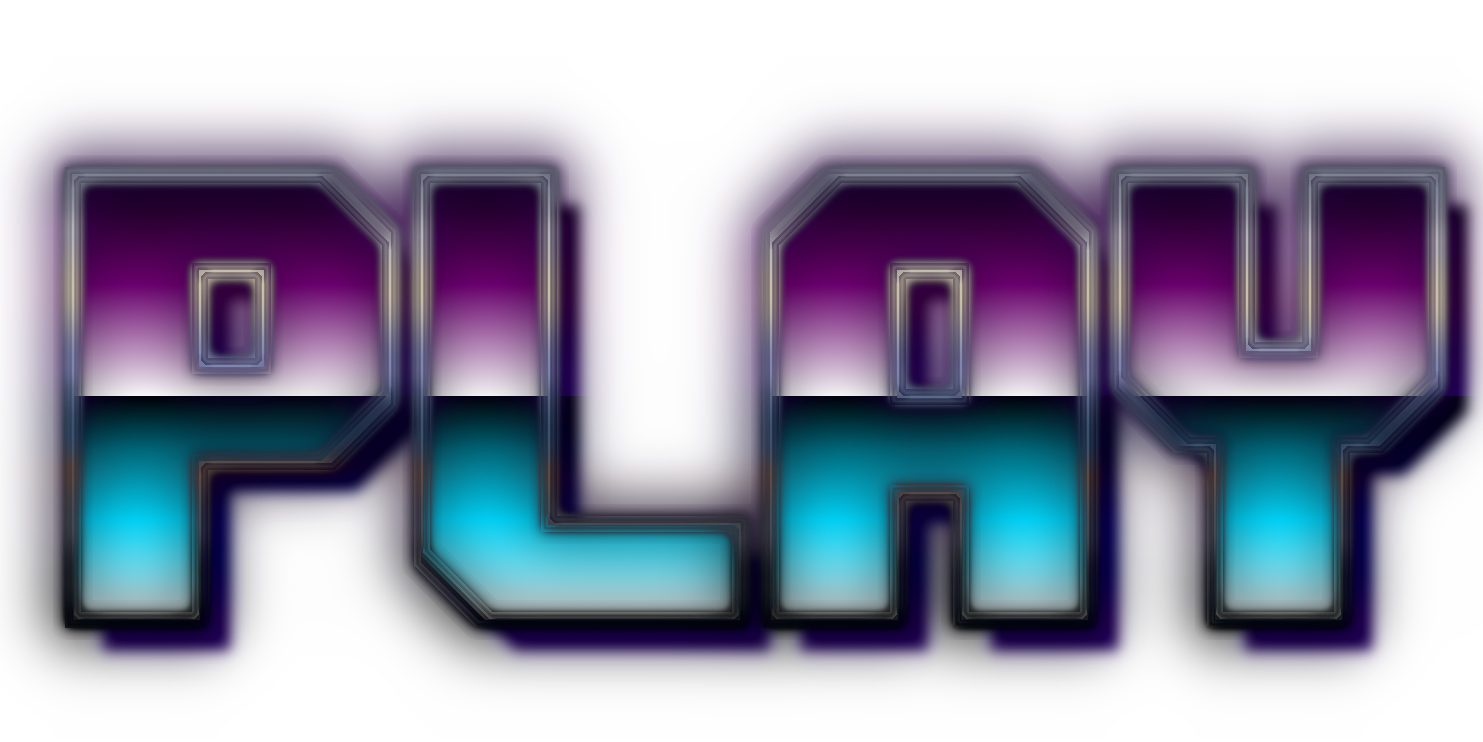
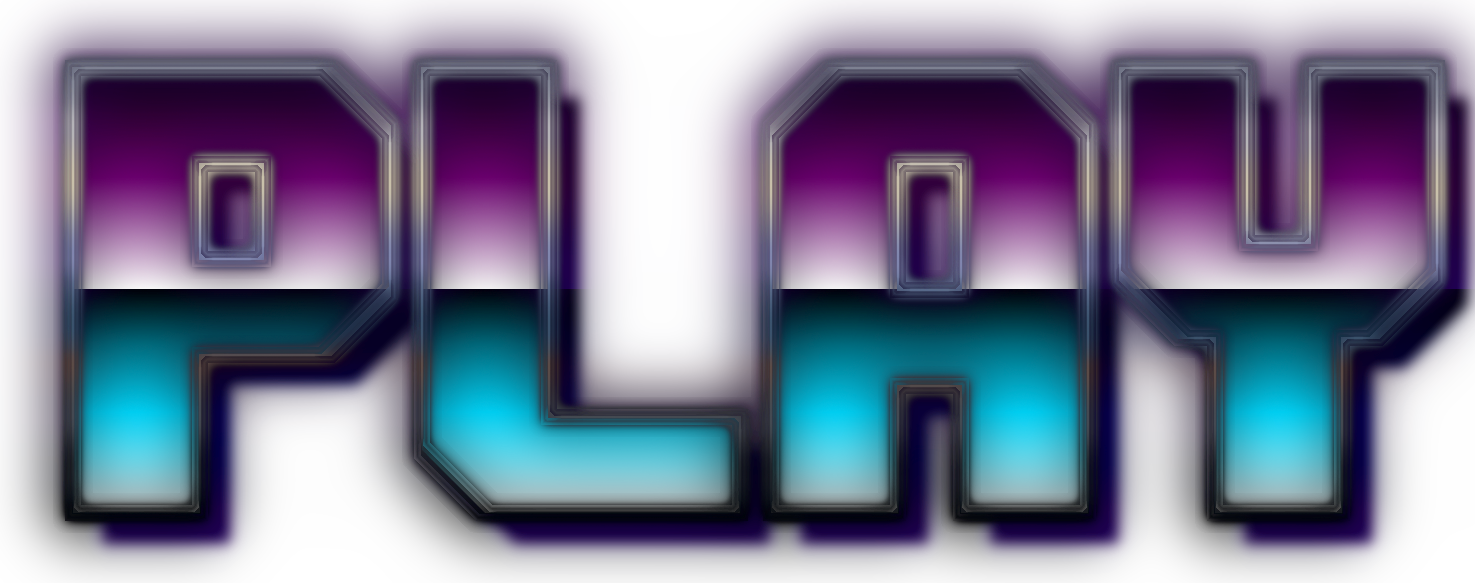
got images centered

diff --git a/public/css/main.css b/public/css/main.css
@@ -31,16 +31,36 @@ body {
 
 }
 
+
+.image_frame {
+	border:solid red 10px;
+	position: absolute;
+}
+
+/*.page_title_text {
+	display:flex;
+	align-items: center;
+	justify-content: center;
+	position: relative;
+}*/
+
 .page_title_text {
 	display: block;
-	margin-left:auto;
-	margin-right:auto;
+	position: absolute;
+	max-height: 100%;
+	max-width:100%;
+	left:50%;
+	top:50%;
+	transform: translate(-50%,-50%);
 }
 
 .main-title-box {
-	background-image: url("../images/background_title.png");
+	background-image: url("../images/background.png");
+	background-size: cover;
+	overflow: hidden;
 	background-repeat: no-repeat;
 	background-position: center;
+	position:relative;
 	max-width: 100%;
 	max-height: 100%;
 	width:100%;

diff --git a/public/demo.html b/public/demo.html
@@ -7,9 +7,11 @@
 <body>
   <!-- do we want the name of the page to remain play or become demo? -->
   <div class="main-title-box">
-		<h1 class="title-main">PLAY</h1>
+		<div class = "">
+				<img src="images/demo_text.png" alt="main_text" class="page_title_text" />
+		</div>
 	</div>
-	
+
 	<div class="menu_box">
 		<div class="nav_menu">
 			<ul class="menu_list">

diff --git a/public/index.html b/public/index.html
@@ -6,8 +6,9 @@
 </head>
 <body>
 	<div class="main-title-box">
-		<!--<h1 class="title-main">PLAY</h1>-->
-		<img src="images/play_text.png" alt="main_text" class="page_title_text">
+		<div class = "">
+				<img src="images/play_text.png" alt="main_text" class="page_title_text" />
+		</div>
 	</div>
 
 	<div class="menu_box">

diff --git a/public/products.html b/public/products.html
@@ -6,7 +6,9 @@
 </head>
 <body>
 	<div class="main-title-box">
-		<h1 class="title-main">PLAY</h1>
+		<div class = "">
+				<img src="images/products_text.png" alt="main_text" class="page_title_text" />
+		</div>
 	</div>
 
 	<div class="menu_box">

diff --git a/public/login.html b/public/login.html
@@ -6,7 +6,9 @@
 </head>
 <body>
 	<div class="main-title-box">
-		<h1 class="title-main">PLAY</h1>
+		<div class = "">
+				<img src="images/login_text.png" alt="main_text" class="page_title_text" />
+		</div>
 	</div>
 
 	<div class="menu_box">
